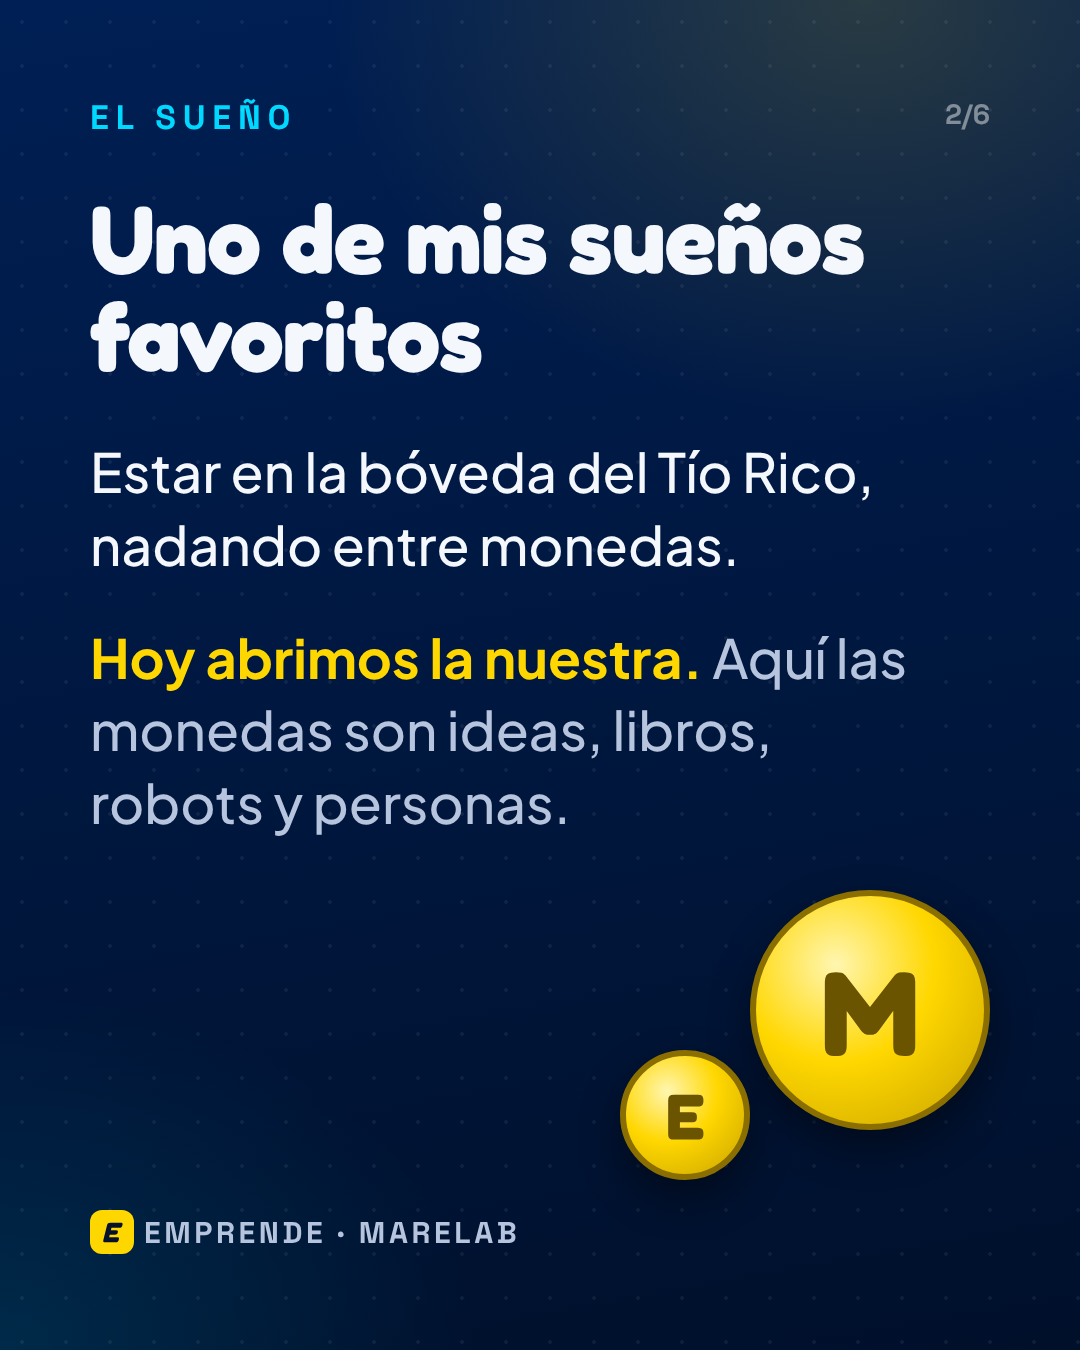
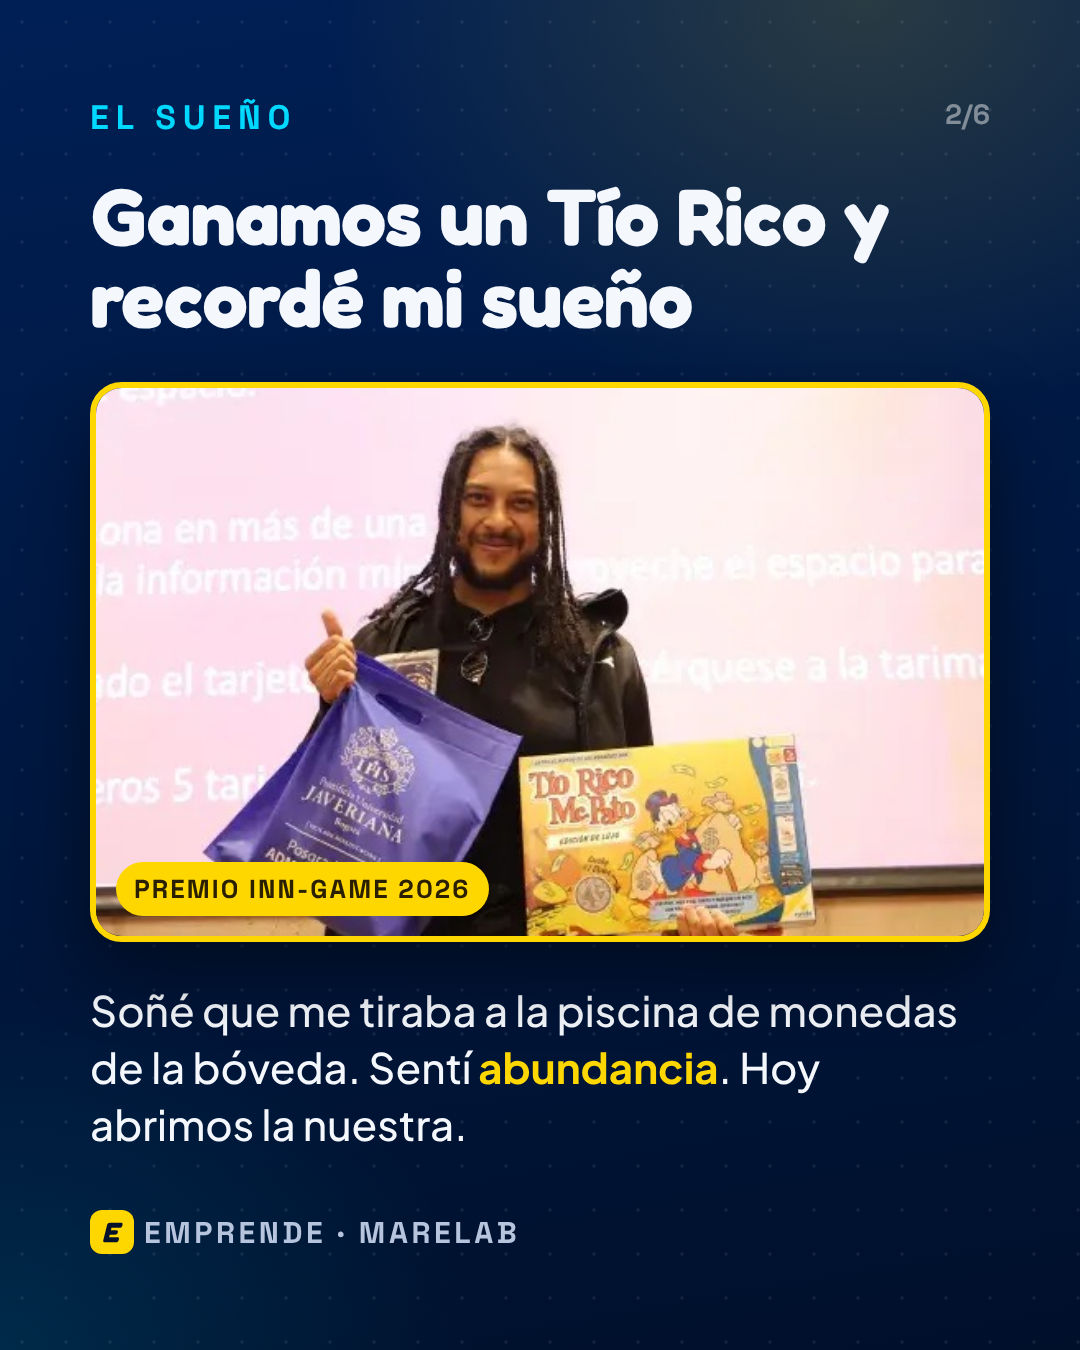
Emprende día 1: foto INN-GAME con el Tío Rico Edición de Lujo en el carrusel y texto actualizado
Claude-Session: https://claude.ai/code/session_01V9qE7n7hfoUKC7N9n9s5w2

diff --git a/estrategia-noviembre-2026/boveda-mare.html b/estrategia-noviembre-2026/boveda-mare.html
@@ -285,7 +285,7 @@ footer{color:var(--fg-mute);font-size:.82rem;text-align:center}
       <h3>El carrusel, lámina por lámina</h3>
       <div class="slides">
         <div class="slide"><span>1 · Portada</span><b>Día 1 de 30. Abrimos la bóveda</b><span>Tablero del Tío Rico, mBot en la salida</span></div>
-        <div class="slide"><span>2 · El sueño</span><b>Nadar entre monedas</b><span>Foto tuya con la caja del juego</span></div>
+        <div class="slide"><span>2 · El sueño</span><b>Ganamos un Tío Rico y recordé mi sueño</b><span>Tu foto en INN-GAME con la Edición de Lujo</span></div>
         <div class="slide"><span>3 · Lo que ya ganamos</span><b>INN-GAME · Fondo Emprender · 45.000</b><span>Trofeo y cifras grandes</span></div>
         <div class="slide"><span>4 · El tablero</span><b>30 casillas, un paso diario</b><span>Captura del tablero MARE</span></div>
         <div class="slide"><span>5 · Este mes</span><b>Leer · Canvas personal · Gamer Med</b><span>"Ganen un Tío Rico"</span></div>
@@ -293,9 +293,11 @@ footer{color:var(--fg-mute);font-size:.82rem;text-align:center}
       </div>
     </div>
     <div class="post">
-      <div class="copy" id="postCopy"><button class="cbtn" type="button" id="copyBtn">Copiar texto</button>Uno de mis sueños favoritos fue estar en la bóveda del Tío Rico. 🪙
+      <div class="copy" id="postCopy"><button class="cbtn" type="button" id="copyBtn">Copiar texto</button>Uno de mis sueños favoritos: me tiré a la piscina de monedas de la bóveda del Tío Rico y sentí abundancia. 🪙
 
-Hoy, 1 de noviembre, empieza EMPRENDE: 30 días, 30 casillas, un paso diario. Como en el tablero de @Ronda, pero aquí las monedas son ideas, libros, robots y personas.
+Hace poco ganamos un Tío Rico (Edición de Lujo) en el Premio INN-GAME de la Javeriana, y ese sueño volvió.
+
+Por eso hoy, 1 de noviembre, empieza EMPRENDE: 30 días, 30 casillas, un paso diario. Como en el tablero de @Ronda, pero aquí las monedas son ideas, libros, robots y personas.
 
 Lo que ya tenemos guardado en la bóveda:
 🏆 Primer puesto Premio INN-GAME 2026 con Robot Soccer Mare
@@ -313,7 +315,7 @@ La meta es inspirar a millones de personas, y eso no se hace solo.
       <div class="side">
         <div class="box"><h3>Reel de 30 segundos</h3><ol>
           <li>0–3 s: plano cenital de la caja del Tío Rico cerrada. Texto: "Día 1 de 30".</li>
-          <li>3–10 s: tú, a cámara: "Uno de mis sueños era la bóveda del Tío Rico".</li>
+          <li>3–10 s: tú, a cámara: "Soñé que me tiraba a la piscina de monedas del Tío Rico y sentí abundancia. Luego lo ganamos en INN-GAME".</li>
           <li>10–22 s: se abre la caja; sobre el tablero aparecen el trofeo INN-GAME, un mBot como ficha, un libro y billetes del juego.</li>
           <li>22–30 s: el mBot avanza a la casilla 1. Texto: "EMPRENDE · ¿Te sumas a la Marea?".</li>
         </ol></div>
@@ -357,7 +359,7 @@ La meta es inspirar a millones de personas, y eso no se hace solo.
 const DAYS = [
  {p:'R',t:'Abrimos la bóveda',m:'Lanzar el tablero en público y abrir el canal de WhatsApp La Marea.',pub:'Reel "Día 1 de 30: abrimos la bóveda" + carrusel con las monedas ya ganadas. Etiquetar a Ronda.',$:'Construir la lista: cada comentario MAREA es un contacto.',k:'50 personas en La Marea',ev:1},
  {p:'M',t:'Ganadores INN-GAME',m:'Contar la historia del primer puesto INN-GAME 2026 y convertirla en oferta B2B.',pub:'Carrusel "Cómo un juego de robots ganó el premio a formación organizacional".',$:'Enviar 5 propuestas RSM a empresas para cierres de año y fiestas de diciembre.',k:'5 propuestas enviadas'},
- {p:'R',t:'Unboxing Tío Rico',m:'Primer unboxing: el Tío Rico de Ronda. Explicar por qué nuestro tablero tiene 30 casillas.',pub:'Video unboxing de 45 s: "abrimos el juego con el que nació esta estrategia". Etiquetar a Ronda.',$:'Enlace a experiencias de juego para colegios y empresas.',k:'1.000 vistas'},
+ {p:'R',t:'Unboxing Tío Rico',m:'Unboxing del Tío Rico Mc Pato Edición de Lujo que ganamos en INN-GAME. Explicar por qué nuestro tablero tiene 30 casillas. Encuesta: ¿en tu casa se jugaba Tío Rico o Monopoly?',pub:'Video unboxing de 45 s: "abrimos el premio con el que nació esta estrategia". Etiquetar a Ronda y a INN-GAME.',$:'Enlace a experiencias de juego para colegios y empresas.',k:'1.000 vistas'},
  {p:'A',t:'Enciende una luz',m:'Reto de electrónica en 60 segundos: un LED, una pila, una sonrisa.',pub:'Reel tutorial + guía PDF gratis a cambio del WhatsApp.',$:'Imán de leads para la Mega Clase.',k:'30 leads'},
  {p:'E',t:'Convocatorias ITM',m:'Responder la invitación del ITM y proponer la charla sobre convocatorias.',pub:'Post "Cómo ganamos Fondo Emprender con 95,27": 5 lecciones.',$:'Posicionamiento como referente; abre puertas a mentorías pagas.',k:'Fecha de charla agendada',tbc:1},
  {p:'R',t:'El Rocket League real',m:'Mostrar Robot Soccer Mare en acción.',pub:'Clip con goles y gritos: "el Rocket League de la vida real".',$:'Cotizaciones RSM para fin de año.',k:'3 cotizaciones'},

diff --git a/estrategia-noviembre-2026/carrusel-dia-1/carrusel.html b/estrategia-noviembre-2026/carrusel-dia-1/carrusel.html
@@ -58,11 +58,12 @@ p{font-size:44px;line-height:1.35;color:var(--soft)}
 <!-- 2 EL SUEÑO -->
 <section class="s" id="s2"><div class="dots"></div><span class="page">2/6</span>
   <span class="eye">El sueño</span>
-  <h2 style="margin-top:50px">Uno de mis sueños favoritos</h2>
-  <p style="margin-top:50px;font-size:54px;color:var(--fg);max-width:820px">Estar en la bóveda del Tío Rico, nadando entre monedas.</p>
-  <p style="margin-top:40px;font-size:54px;max-width:820px"><span class="gold" style="font-weight:700">Hoy abrimos la nuestra.</span> Aquí las monedas son ideas, libros, robots y personas.</p>
-  <div class="coin" style="width:240px;height:240px;right:90px;bottom:220px;font-size:120px">M</div>
-  <div class="coin" style="width:130px;height:130px;right:330px;bottom:170px;font-size:64px">E</div>
+  <h2 style="margin-top:36px;font-size:80px">Ganamos un Tío Rico y recordé mi sueño</h2>
+  <div style="margin-top:44px;position:relative;width:900px;height:560px;border-radius:32px;overflow:hidden;border:6px solid var(--gold);box-shadow:0 30px 70px rgba(0,0,0,.45)">
+    <img src="foto-inngame-tio-rico.jpg" alt="" style="width:100%;height:100%;object-fit:cover;object-position:50% 40%">
+    <span style="position:absolute;left:20px;bottom:20px;background:var(--gold);color:#2a2000;font-family:'Space Grotesk';font-weight:700;font-size:26px;letter-spacing:.08em;padding:10px 18px;border-radius:99px">PREMIO INN-GAME 2026</span>
+  </div>
+  <p style="margin-top:40px;font-size:42px;color:var(--fg);max-width:900px">Soñé que me tiraba a la piscina de monedas de la bóveda. Sentí <span class="gold" style="font-weight:700">abundancia</span>. Hoy abrimos la nuestra.</p>
   <div class="foot"><span class="brand"><i class="pill" style="background:var(--gold)">E</i>Emprende · Marelab</span><span></span></div>
 </section>
 
